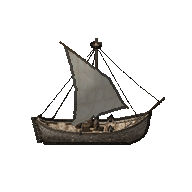
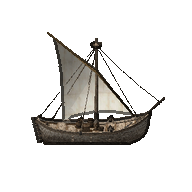
돛 틀기를 앞뒤에서만 다 하고 옆에서는 안 한다(제보) — 옆모습(서 · 동)에서도 35° 틀어 돛이 좁아 선체만 길어 보였다. 트는 각도 = 돛 틀기 × |cos 돌리기|. 바사 그림을 다시 굽는다
Claude-Session: https://claude.ai/code/session_01BJuwbkemqPnGxnYtLkf1qM

Changed region(s): [[0.25, 0.1562, 0.7188, 0.6562]]

diff --git a/tools/dho_ship_render.py b/tools/dho_ship_render.py
@@ -19,7 +19,7 @@ GV Online 클라이언트(환경 변수 GVO_DIR, 없으면 기본 설치 자리)
              줄마다 'ok …' 또는 'error …' 한 줄로 답한다. 배율은 --sprites 와 같다(여덟 표준 각도로 잰 네모).
   --skip-slots  뺄 돛 자리(0 ~ 4). 한 돛대에 가로돛 · 삼각돛이 겹쳐 서는 모형이 있어 고르게 한다.
   --info     그 모형의 돛 자리 번호만 알린다.
-  --sail-turn · --billow  돛을 돛대 둘레로 틀고(기본 35°, 그림은 각도마다 왼쪽 · 오른쪽 가운데 돛이 넓게 보이는 쪽) 돛천을 부풀린다(기본 0.15) — 앞뒤에서 봐도 돛이 납작하지 않게.
+  --sail-turn · --billow  돛을 돛대 둘레로 틀고(기본 35° × |cos 돌리기| — 앞뒤에서만 다 틀고 옆에서는 안 튼다, 왼쪽 · 오른쪽 가운데 돛이 넓게 보이는 쪽) 돛천을 부풀린다(기본 0.15) — 앞뒤에서 봐도 돛이 납작하지 않게.
 
 음영은 정점 법선을 보간해 칠하고 빛은 화면 기준 왼쪽 위 앞에서 온다 — 배가 어느 쪽을 보든 같은 쪽이 밝다.
 작은 그림은 원본 배 그림처럼 가장자리 한 줄을 어둡게 둘러 바다 위에서 떠 보이게 한다.
@@ -103,7 +103,34 @@ def load_parts(gvo_dir, model_no, skip=(), sail_turn=0.0, billow=0.0):
         raise SystemExit(f"모형 {model_no} 의 조각을 못 읽었습니다")
     if sail_turn or billow:
         parts = shape_sails(parts, groups, sail_turn, billow)
+    load_parts.groups = groups   # Rig 가 돛 모양을 각도마다 다시 지을 때 쓴다
     return parts
+
+
+class Rig:
+    """
+    돛 모양을 각도마다 달리 짓는다 — 앞뒤(북 · 남)에서 볼 때만 돛을 다 틀고, 옆(서 · 동)에서는 안 튼다.
+    옆에서도 틀면 돛이 좁아 보여 선체만 길어 보였다(제보). 트는 각도 = 돛 틀기 × |cos 돌리기|.
+    양쪽으로 튼 두 벌 가운데 돛천이 화면에 더 넓게 비치는 쪽을 쓴다.
+    """
+
+    def __init__(self, gvo_dir, model_no, skip, turn, billow):
+        self.base = load_parts(gvo_dir, model_no, skip)
+        self.groups = load_parts.groups
+        self.turn, self.billow = turn, billow
+        self.cache = {}
+
+    def shaped(self, turn):
+        key = round(turn, 1)
+        if key not in self.cache:
+            self.cache[key] = shape_sails(self.base, self.groups, key, self.billow) if key or self.billow else self.base
+        return self.cache[key]
+
+    def parts_for(self, yaw, elev, both_sides=True):
+        t = self.turn * abs(np.cos(np.radians(yaw)))
+        if not both_sides or t < 0.5:
+            return self.shaped(t)
+        return max((self.shaped(t), self.shaped(-t)), key=lambda v: sail_area(v, yaw, elev))
 
 
 def vertex_normals(pos, tris):
@@ -279,14 +306,13 @@ def sail_area(parts, yaw, elev):
 class Shooter:
     """모형 하나를 같은 배율로 찍는다 — 표준 여덟 각도로 잰 네모로 잘라 어느 각도로 찍어도 크기가 같다.
 
-    돛을 양쪽으로 튼 두 벌(variants)을 받으면 각도마다 돛천이 화면에 더 넓게 비치는 쪽을 쓴다 — 한쪽으로만 틀면
-    앞뒤는 나아져도 대각선 둘에서 돛이 옆선이 되어 납작했다. 삼각돛은 바람에 따라 양쪽으로 넘기므로 어색하지 않다.
+    돛 모양은 각도마다 Rig 가 짓는다 — 앞뒤에서만 돛을 틀고, 양쪽 가운데 돛천이 넓게 비치는 쪽을 쓴다.
+    삼각돛은 바람에 따라 양쪽으로 넘기므로 방향마다 쪽이 달라도 어색하지 않다.
     """
 
-    def __init__(self, variants, elev, work=384):
-        self.variants, self.elev, self.work = variants, elev, work
-        parts = variants[0]
-        radius, self.ymin, self.ymax = bounds(parts)
+    def __init__(self, rig, elev, work=384):
+        self.rig, self.elev, self.work = rig, elev, work
+        radius, self.ymin, self.ymax = bounds(rig.base)
         self.scale = (work / 2 - 4) / max(radius, self.ymax - self.ymin)
         self.raw = [self.render(-45 * i, elev) for i in range(8)]
         box = None
@@ -302,8 +328,7 @@ class Shooter:
         self.crop = (int(cx - side / 2), int(cy - side / 2 + side * 0.04), int(cx + side / 2), int(cy + side / 2 + side * 0.04))
 
     def render(self, yaw, elev):
-        parts = max(self.variants, key=lambda v: sail_area(v, yaw, elev))
-        return render(parts, yaw, elev, self.work, self.work, self.scale, (self.ymin + self.ymax) / 2)
+        return render(self.rig.parts_for(yaw, elev), yaw, elev, self.work, self.work, self.scale, (self.ymin + self.ymax) / 2)
 
     def save(self, im, out, direction, hd):
         cut = im.crop(self.crop)
@@ -312,16 +337,16 @@ class Shooter:
             finish(cut, 192).save(os.path.join(out, f"ship_{direction}_hd.png"))
 
 
-def sprites(variants, out, elev, hd):
+def sprites(rig, out, elev, hd):
     # 게임 방향 i(0 북부터 반시계)는 렌더 각도 −45°·i 다 — yaw 90 이면 뱃머리가 오른쪽(동)이다.
-    shooter = Shooter(variants, elev)
+    shooter = Shooter(rig, elev)
     for i, im in enumerate(shooter.raw):
         shooter.save(im, out, i, hd)
         print(f"sprite {i + 1}/8", flush=True)
 
 
-def serve(variants, out, elev):
-    shooter = Shooter(variants, elev)
+def serve(rig, out, elev):
+    shooter = Shooter(rig, elev)
     print("ready", flush=True)
     for line in sys.stdin:
         words = line.split()
@@ -344,15 +369,16 @@ def serve(variants, out, elev):
             print(f"error {ex}", flush=True)
 
 
-def frames(parts, out, count, width, height, elev, bg, turns, start, super_sample=2):
-    radius, ymin, ymax = bounds(parts)
+def frames(rig, out, count, width, height, elev, bg, turns, start, super_sample=2):
+    radius, ymin, ymax = bounds(rig.base)
     w, h = width * super_sample, height * super_sample
     # 어느 쪽을 봐도 들어오게 — 가로는 지름, 세로는 높이(내려다보면 지름의 sin 만큼 더 차지한다)
     span_y = (ymax - ymin) * np.cos(np.radians(elev)) + 2 * radius * np.sin(np.radians(elev))
     scale = min(w * 0.9 / (2 * radius), h * 0.9 / span_y)
     for k in range(count):
         yaw = start + 360.0 * turns * k / count
-        ship = render(parts, yaw, elev, w, h, scale, (ymin + ymax) / 2)
+        # 동영상은 돌아가는 동안 돛이 뒤집히지 않게 한쪽으로만 튼다(트는 크기는 그림과 같이 각도마다).
+        ship = render(rig.parts_for(yaw, elev, both_sides=False), yaw, elev, w, h, scale, (ymin + ymax) / 2)
         canvas = Image.new("RGBA", (w, h), bg + (255,))
         canvas.alpha_composite(ship)
         canvas.convert("RGB").resize((width, height), Image.LANCZOS).save(os.path.join(out, f"frame_{k:03d}.png"))
@@ -386,20 +412,16 @@ def main():
         return
     os.makedirs(args.out, exist_ok=True)
     skip = {int(k) for k in args.skip_slots.split(",") if k.strip()}
-    parts = load_parts(args.gvo, args.model, skip, args.sail_turn, args.billow)
-    print(f"parts {len(parts)}", flush=True)
-    # 그림은 돛을 양쪽으로 튼 두 벌에서 각도마다 고른다. 동영상은 돌아가는 동안 돛이 뒤집히지 않게 한 벌만 쓴다.
-    variants = [parts]
-    if args.sail_turn and (args.sprites or args.serve):
-        variants.append(load_parts(args.gvo, args.model, skip, -args.sail_turn, args.billow))
+    rig = Rig(args.gvo, args.model, skip, args.sail_turn, args.billow)
+    print(f"parts {len(rig.base)}", flush=True)
     if args.serve:
-        serve(variants, args.out, args.sprite_elev)
+        serve(rig, args.out, args.sprite_elev)
         return
     if args.sprites:
-        sprites(variants, args.out, args.sprite_elev, args.hd)
+        sprites(rig, args.out, args.sprite_elev, args.hd)
     if args.frames > 0:
         bg = tuple(int(c) for c in args.bg.split(","))
-        frames(parts, args.out, args.frames, args.width, args.height, args.elev, bg, args.turns, args.start)
+        frames(rig, args.out, args.frames, args.width, args.height, args.elev, bg, args.turns, args.start)
     print("done", flush=True)
 
 
